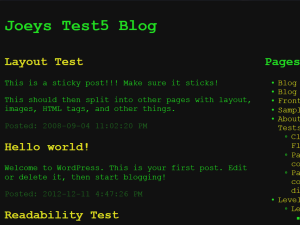
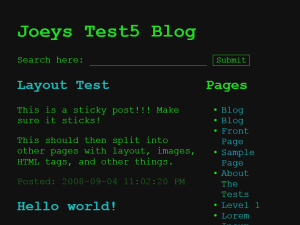
Color change

diff --git a/style.css b/style.css
@@ -5,7 +5,7 @@ Description: A very clean minimalist theme, without comments, archives or other 
  			 Based on mnmlist theme by Leo Babauta http://mnmlist.com/theme/
 Author: Joseph Bales
 Author URI: http://josephbales.com
-Version: Beta20130109
+Version: Beta20130111
 .
 This theme is public domain, free, and offered as is.
 .
@@ -21,7 +21,7 @@ margin: 0 2em 2em 2em;
 
 a {
 text-decoration: none;
-color: #dd2;
+color: #1dbbbb;
 }
 
 a:hover {
